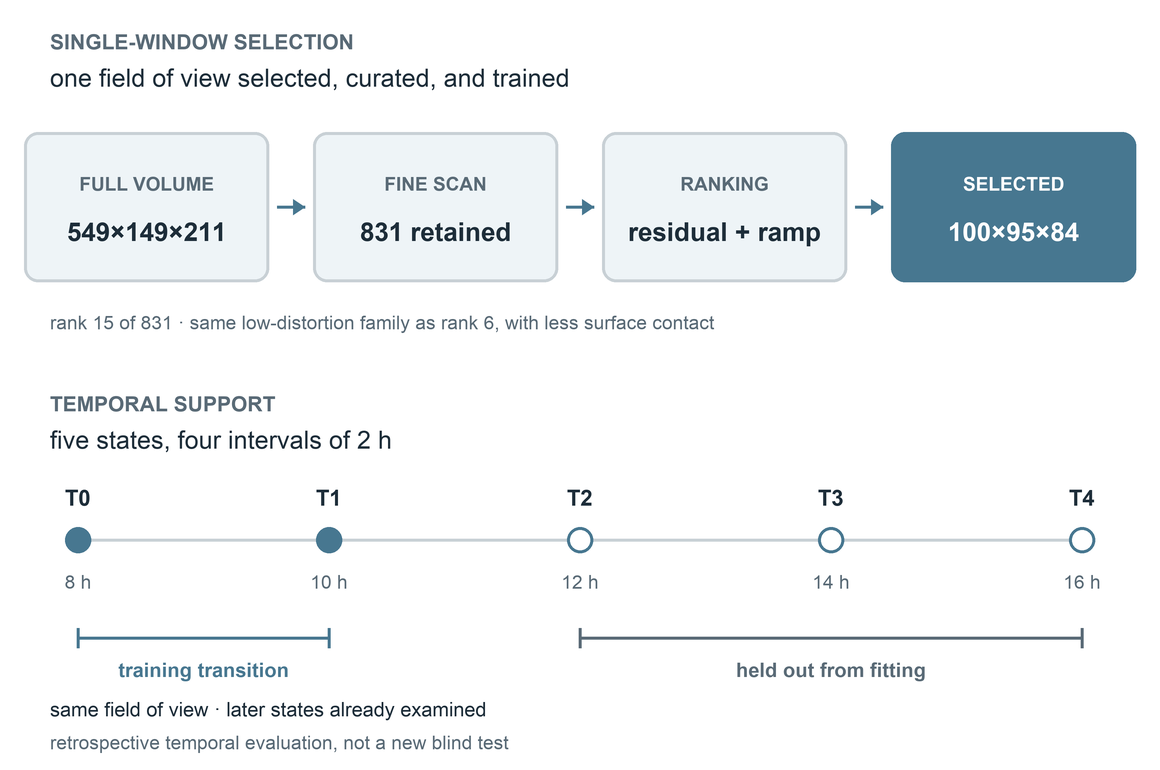
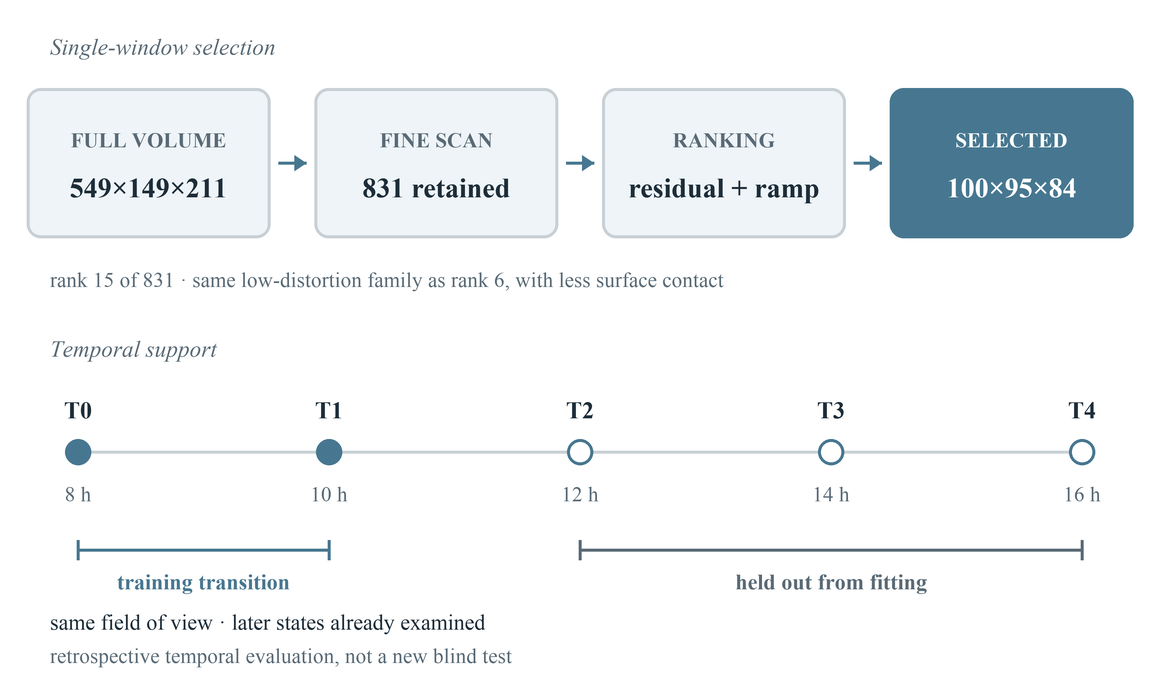
Set the three schematics in Times, like the rest of the document
The UF class loads newtxtext, so the body is Times, and the twelve
figures taken from the manuscripts embed Times New Roman with Computer
Modern math. The three schematics generated here embedded Helvetica or
Arial, which made them the only sans-serif in the document and the
reason they read as slides rather than figures. Their scripts share a
palette that one of them still labels "deck palette".

- Helvetica and Arial give way to Times throughout, with sizes about a
  tenth larger to offset the smaller x-height
- initialFontName keeps reportlab from declaring Helvetica for the empty
  text object it opens each canvas with, so no Helvetica remains
- the letterspaced uppercase eyebrows become italic labels in sentence
  case, which is how a document marks a band rather than a slide
- the Aim 1 support figure drops its two lead lines, one of which the
  caption already states and the other of which the timeline already
  shows; its canvas falls from 770 to 682 and its smallest label rises
  to 8.5 pt

Palette and rounded corners are left alone. They are a matter of taste
rather than register, and the scripts document the colour choices as
safe under greyscale printing and colour-vision deficiency.

diff --git a/figures/make_aim1_support.py b/figures/make_aim1_support.py
@@ -41,19 +41,25 @@ WX, WY, WZ = 100, 95, 84
 HOLDS = [8, 10, 12, 14, 16]
 
 S = 3                                   # supersample factor
-W, H = 1160, 770                        # design units; see layout note above
-FONT = "/System/Library/Fonts/Supplemental/Arial.ttf"
-FONT_B = "/System/Library/Fonts/Supplemental/Arial Bold.ttf"
+W, H = 1160, 682                        # design units; see layout note above
+# Times, to match the body font the UF class loads through newtxtext, and
+# the Times used by the figures extracted from the manuscripts.
+FONT = "/System/Library/Fonts/Supplemental/Times New Roman.ttf"
+FONT_B = "/System/Library/Fonts/Supplemental/Times New Roman Bold.ttf"
+FONT_I = "/System/Library/Fonts/Supplemental/Times New Roman Italic.ttf"
 
-# design-unit font sizes; at W = 1160 one unit renders at 0.403 pt
-F_EYEBROW, F_LEAD = 21, 25              # 8.5 pt, 10.1 pt
-F_BOX_TITLE, F_BOX_VALUE = 19, 26       # 7.7 pt, 10.5 pt
-F_NODE, F_NODE_SUB = 22, 19             # 8.9 pt, 7.7 pt
-F_BRACKET, F_NOTE, F_NOTE_SUB = 20, 20, 19
+# design-unit font sizes; at W = 1160 one unit renders at 0.403 pt.  Times has
+# a smaller x-height than Arial, so these run about a tenth larger than the
+# sans sizes they replace.
+F_PANEL = 23                            # 9.3 pt
+F_BOX_TITLE, F_BOX_VALUE = 21, 28       # 8.5 pt, 11.3 pt
+F_NODE, F_NODE_SUB = 24, 21             # 9.7 pt, 8.5 pt
+F_BRACKET, F_NOTE, F_NOTE_SUB = 22, 22, 21
 
 
-def f(sz, bold=False):
-    return ImageFont.truetype(FONT_B if bold else FONT, sz * S)
+def f(sz, bold=False, italic=False):
+    path = FONT_I if italic else (FONT_B if bold else FONT)
+    return ImageFont.truetype(path, sz * S)
 
 
 def text_w(d, s, font):
@@ -65,10 +71,8 @@ def main():
     d = ImageDraw.Draw(img)
 
     # ------------------------------------------------- panel A: selection
-    d.text((50 * S, 30 * S), "SINGLE-WINDOW SELECTION",
-           font=f(F_EYEBROW, True), fill=MUTED)
-    d.text((50 * S, 64 * S), "one field of view selected, curated, and trained",
-           font=f(F_LEAD), fill=INK)
+    d.text((50 * S, 34 * S), "Single-window selection",
+           font=f(F_PANEL, italic=True), fill=MUTED)
 
     steps = (
         ("FULL VOLUME", f"{NX}×{NY}×{NZ}"),
@@ -85,7 +89,7 @@ def main():
     gap = 44 * S
     row_w = 4 * bw + 3 * gap
     x0 = (W * S - row_w) / 2
-    y0, bh = 132 * S, 150 * S
+    y0, bh = 88 * S, 150 * S
 
     for i, (title, value) in enumerate(steps):
         left = x0 + i * (bw + gap)
@@ -105,19 +109,17 @@ def main():
             d.polygon([(bxx, ay), (bxx - 12 * S, ay - 8 * S),
                        (bxx - 12 * S, ay + 8 * S)], fill=BLUE)
 
-    d.text((50 * S, 312 * S),
+    d.text((50 * S, 268 * S),
            "rank 15 of 831 · same low-distortion family as rank 6, "
            "with less surface contact",
            font=f(F_NOTE_SUB), fill=MUTED)
 
     # ------------------------------------------------- panel B: time states
-    d.text((50 * S, 392 * S), "TEMPORAL SUPPORT",
-           font=f(F_EYEBROW, True), fill=MUTED)
-    d.text((50 * S, 426 * S), "five states, four intervals of 2 h",
-           font=f(F_LEAD), fill=INK)
+    d.text((50 * S, 336 * S), "Temporal support",
+           font=f(F_PANEL, italic=True), fill=MUTED)
 
     tx0, tx1 = 78 * S, (W - 78) * S
-    ty = 540 * S
+    ty = 452 * S
     d.line([tx0, ty, tx1, ty], fill=LINE, width=3 * S)
     xs = [tx0 + (tx1 - tx0) * i / (len(HOLDS) - 1) for i in range(len(HOLDS))]
     for i, (x, h) in enumerate(zip(xs, HOLDS)):
@@ -143,10 +145,10 @@ def main():
     bracket(xs[0], xs[1], ty + 98 * S, "training transition", True)
     bracket(xs[2], xs[4], ty + 98 * S, "held out from fitting", False)
 
-    d.text((50 * S, 698 * S),
+    d.text((50 * S, 610 * S),
            "same field of view · later states already examined",
            font=f(F_NOTE), fill=INK)
-    d.text((50 * S, 732 * S),
+    d.text((50 * S, 644 * S),
            "retrospective temporal evaluation, not a new blind test",
            font=f(F_NOTE_SUB), fill=MUTED)
 

diff --git a/figures/make_proposal_framework.py b/figures/make_proposal_framework.py
@@ -20,10 +20,9 @@ SOFT_TEAL = HexColor("#EEF6F5")
 
 def draw_spaced_label(c, x, y, text, align="left"):
     obj = c.beginText()
-    obj.setFont("Helvetica-Bold", 6.8)
+    obj.setFont("Times-Italic", 8.2)
     obj.setFillColor(MUTED)
-    obj.setCharSpace(0.65)
-    width = c.stringWidth(text, "Helvetica-Bold", 6.8) + 0.65 * max(len(text) - 1, 0)
+    width = c.stringWidth(text, "Times-Italic", 8.2)
     if align == "center":
         obj.setTextOrigin(x - width / 2, y)
     else:
@@ -41,12 +40,12 @@ def draw_right_arrow(c, x1, y, x2, color=BLUE):
 
 
 def draw_foundation_text(c, x, y, status, title, subtitle):
-    draw_spaced_label(c, x, y + 24, status.upper())
+    draw_spaced_label(c, x, y + 24, status)
     c.setFillColor(INK)
-    c.setFont("Helvetica-Bold", 9.2)
+    c.setFont("Times-Bold", 9.9)
     c.drawString(x, y + 9, title)
     c.setFillColor(MUTED)
-    c.setFont("Helvetica", 7.7)
+    c.setFont("Times-Roman", 8.3)
     c.drawString(x, y - 4, subtitle)
 
 
@@ -139,12 +138,12 @@ def draw_foundation_merge(c):
 
 
 def draw_focus(c):
-    draw_spaced_label(c, PAGE_W / 2, 210, "EXPERIMENT-CENTERED AIMS", align="center")
+    draw_spaced_label(c, PAGE_W / 2, 210, "Experiment-centered aims", align="center")
     c.setFillColor(INK)
-    c.setFont("Helvetica-Bold", 10.2)
+    c.setFont("Times-Bold", 11.0)
     c.drawCentredString(PAGE_W / 2, 195, "Measured 4D grain evolution is the scientific target")
     c.setFillColor(MUTED)
-    c.setFont("Helvetica", 8.1)
+    c.setFont("Times-Roman", 8.7)
     c.drawCentredString(
         PAGE_W / 2,
         181,
@@ -153,12 +152,12 @@ def draw_focus(c):
 
 
 def draw_aim_text(c, x, y, aim, title, subtitle):
-    draw_spaced_label(c, x, y + 33, aim.upper())
+    draw_spaced_label(c, x, y + 33, aim)
     c.setFillColor(INK)
-    c.setFont("Helvetica-Bold", 11.2)
+    c.setFont("Times-Bold", 12.1)
     c.drawString(x, y + 15, title)
     c.setFillColor(MUTED)
-    c.setFont("Helvetica", 8.5)
+    c.setFont("Times-Roman", 9.2)
     c.drawString(x, y, subtitle)
 
 
@@ -220,13 +219,14 @@ def draw_aim2_schematic(c, x, y):
 
 
 def build():
-    c = canvas.Canvas(str(OUTPUT), pagesize=(PAGE_W, PAGE_H), pageCompression=1)
+    c = canvas.Canvas(str(OUTPUT), pagesize=(PAGE_W, PAGE_H), pageCompression=1,
+                       initialFontName="Times-Roman")
     c.setTitle("Dissertation research framework")
     c.setAuthor("Zhihui Tian")
     c.setFillColor(white)
     c.rect(0, 0, PAGE_W, PAGE_H, fill=1, stroke=0)
 
-    draw_spaced_label(c, 20, 366, "COMPLETED AND PRELIMINARY FOUNDATIONS")
+    draw_spaced_label(c, 20, 366, "Completed and preliminary foundations")
 
     col_x = (20, 181, 342)
     draw_simulation_schematic(c, col_x[0], 304)

diff --git a/figures/make_specific_aims_overview.py b/figures/make_specific_aims_overview.py
@@ -20,18 +20,17 @@ SOFT_TEAL = HexColor("#EEF6F5")
 
 def draw_text(c, x, y, aim, title, subtitle):
     label = c.beginText(x, y + 38)
-    label.setFont("Helvetica-Bold", 7.5)
+    label.setFont("Times-Italic", 8.6)
     label.setFillColor(MUTED)
-    label.setCharSpace(0.7)
-    label.textLine(aim.upper())
+    label.textLine(aim)
     c.drawText(label)
 
     c.setFillColor(INK)
-    c.setFont("Helvetica-Bold", 12)
+    c.setFont("Times-Bold", 13.0)
     c.drawString(x, y + 19, title)
 
     c.setFillColor(MUTED)
-    c.setFont("Helvetica", 9)
+    c.setFont("Times-Roman", 9.7)
     c.drawString(x, y + 3, subtitle)
 
 
@@ -132,7 +131,8 @@ def draw_aim2_schematic(c, x, y):
 
 
 def build():
-    c = canvas.Canvas(str(OUTPUT), pagesize=(PAGE_W, PAGE_H), pageCompression=1)
+    c = canvas.Canvas(str(OUTPUT), pagesize=(PAGE_W, PAGE_H), pageCompression=1,
+                       initialFontName="Times-Roman")
     c.setTitle("Specific Aims overview")
     c.setAuthor("Zhihui Tian")
     c.setFillColor(white)
